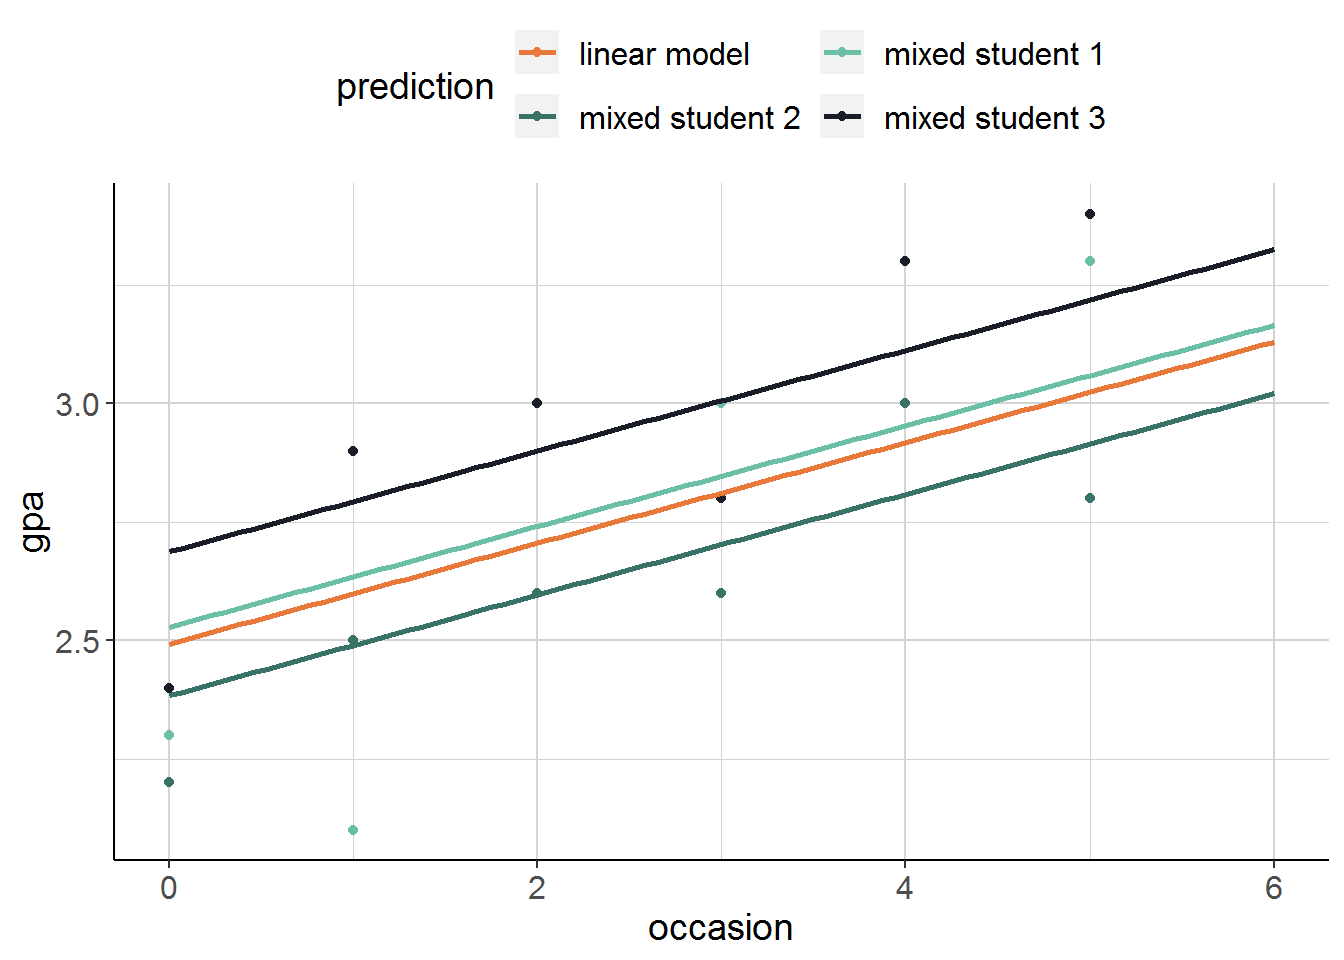
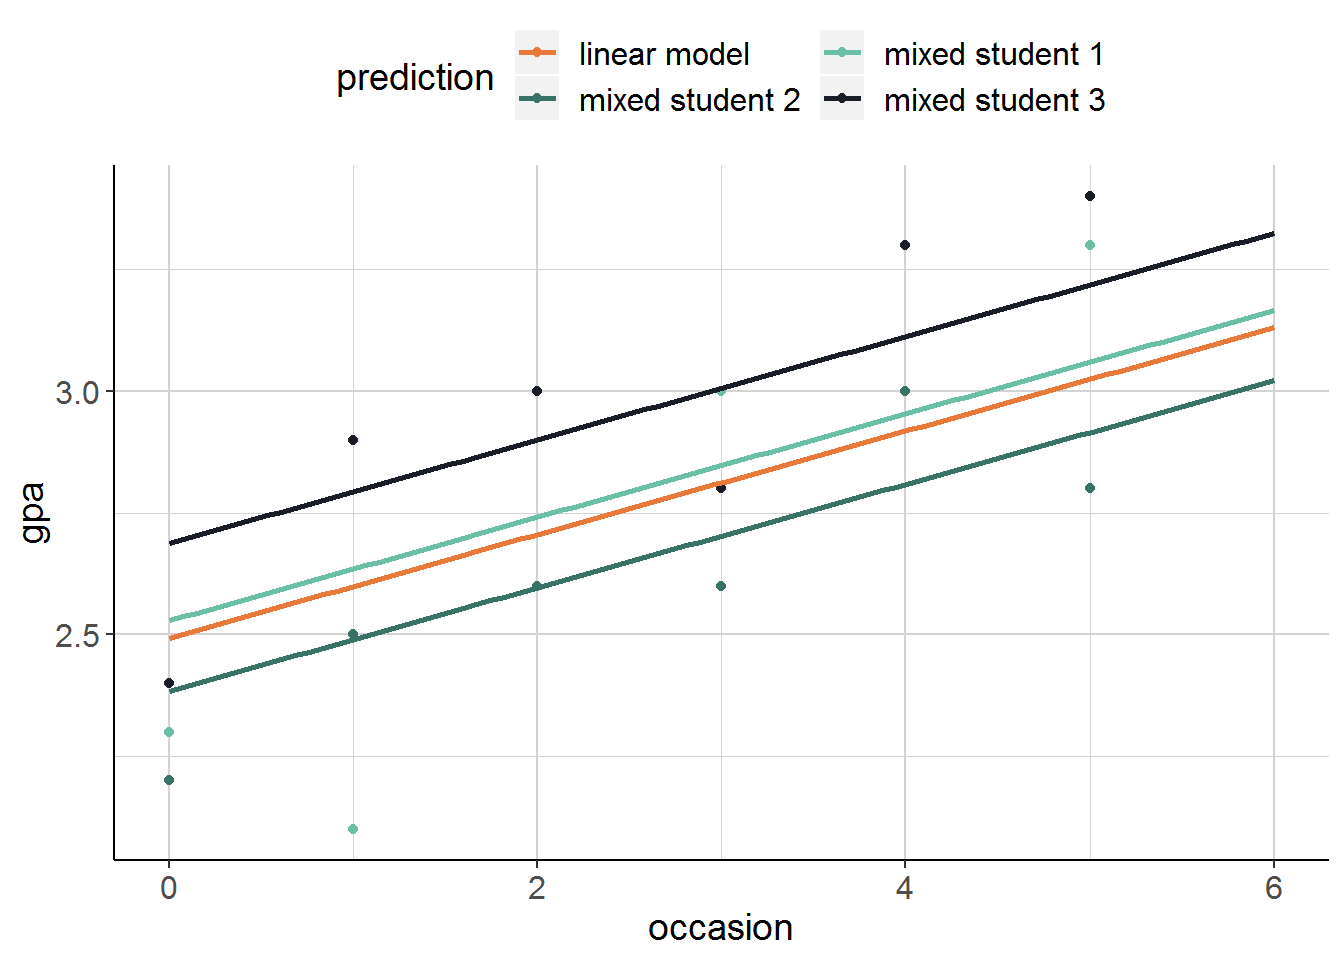
Versuch, es zum Update zu zwingen

diff --git a/mixed_models/random-intercept-models.html b/mixed_models/random-intercept-models.html
@@ -638,7 +638,7 @@ df_for_plot &lt;-<span class="st"> </span><span class="kw">data.frame</span>(
 <span class="st">  </span><span class="kw">geom_smooth</span>(<span class="kw">aes</span>(<span class="dt">y =</span> prediction, <span class="dt">colour =</span> source), <span class="dt">se =</span> <span class="ot">FALSE</span>, <span class="dt">method =</span> <span class="st">&quot;lm&quot;</span>,
               <span class="dt">fullrange =</span> <span class="ot">TRUE</span>) <span class="op">+</span>
 <span class="st">  </span><span class="kw">scale_colour_manual</span>(<span class="st">&quot;prediction&quot;</span>, <span class="dt">values =</span> <span class="kw">c</span>(<span class="kw">pick_colour</span>(<span class="dv">5</span>, <span class="st">&quot;farbschema&quot;</span>)),
-                      <span class="dt">guide =</span> <span class="kw">guide_legend</span>(<span class="dt">nrow =</span> <span class="dv">2</span>, <span class="dt">byrow =</span> <span class="ot">TRUE</span>)) <span class="op">+</span>
+                      <span class="dt">guide =</span> <span class="kw">guide_legend</span>(<span class="dt">nrow =</span> <span class="dv">2</span>, <span class="dt">byrow =</span> <span class="dv">2</span>)) <span class="op">+</span>
 <span class="st">  </span>julis_theme</code></pre>
 <p><img src="NOTES_files/figure-html/unnamed-chunk-14-1.png" width="672" /></p>
 </div>
